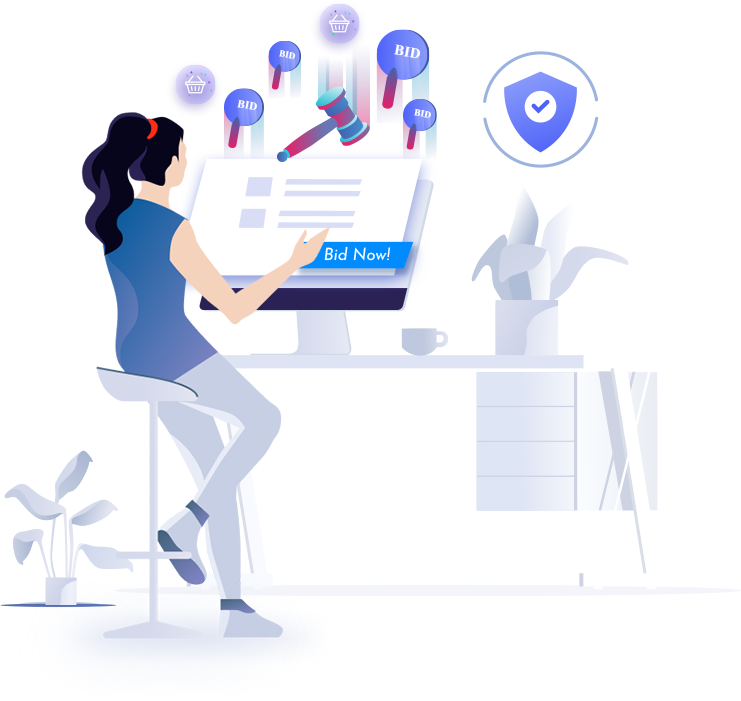
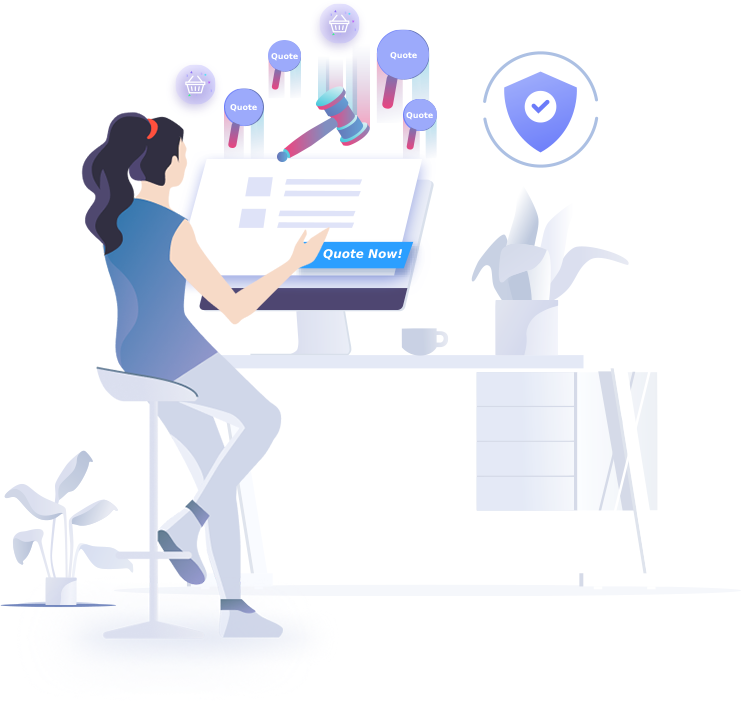
global quote

diff --git a/fornt_new_assests/assets/css/main.css b/fornt_new_assests/assets/css/main.css
@@ -3488,7 +3488,8 @@ div[class*="auction"] .custom-button {
     overflow: hidden;
     background-color: #f6f6ff;
     justify-content: center;
-    align-items: center;
+   /* align-items: center;*/
+   text-align: center;
 }
 
 .auction-item-2 .auction-thumb .bid {
@@ -8889,13 +8890,13 @@ a.vt-cash {
     font-weight: 800;
 }
 .img-glob{
-    width: 70px !important;
-    margin-right: 20px;
+    width: 50px !important;
+    margin-right: 10px;
 }
 
 
 a.buyer-text {
-    font-size: 30px;
+    font-size: 16px;
     padding: 50px 0px;
     color: #000;
     font-weight: 900;
@@ -8941,5 +8942,14 @@ h4.ct-shop {
     margin-bottom: 14px;
     font-weight: 500;
     color: #545454;
+}
+
+p.title-st {
+    font-size: 18px;
+    margin-top: 6px;
+    font-weight: 600;
+}
+a.browse-item.st-ht {
+    height: 200px !important;
 }
 /*close*/

diff --git a/application/views/front/buyer-home.php b/application/views/front/buyer-home.php
@@ -295,30 +295,47 @@ a.st-ankr {
             </div>
             <div class="m--15">
                 <div class="browse-slider owl-theme owl-carousel">
-                    <a href="#0" class="browse-item">
-                        <img src="<?php echo base_url();?>fornt_new_assests/assets/images/auction/01.png" alt="auction">
-                        <span class="info">Vehicles</span>
+                    <a href="#0" class="browse-item st-ht" data-toggle="modal" data-target="#requestModalCenter">
+                        <img src="<?php echo base_url();?>fornt_new_assests/assets/images/auction/06.png" alt="auction">
+                        <span class="info">Home Appliance</span>
                     </a>
-                    <a href="#0" class="browse-item">
-                        <img src="<?php echo base_url();?>fornt_new_assests/assets/images/auction/02.png" alt="auction">
-                        <span class="info">Jewelry</span>
-                    </a>
-                    <a href="#0" class="browse-item">
-                        <img src="<?php echo base_url();?>fornt_new_assests/assets/images/auction/03.png" alt="auction">
-                        <span class="info">Watches</span>
-                    </a>
-                    <a href="#0" class="browse-item">
+                    <a href="#0" class="browse-item st-ht" data-toggle="modal" data-target="#electronicModalCenter">
                         <img src="<?php echo base_url();?>fornt_new_assests/assets/images/auction/04.png" alt="auction">
                         <span class="info">Electronics</span>
                     </a>
-                    <a href="#0" class="browse-item">
-                        <img src="<?php echo base_url();?>fornt_new_assests/assets/images/auction/05.png" alt="auction">
-                        <span class="info">Sports</span>
+                    <a href="#0" class="browse-item st-ht">
+                        <img src="<?php echo base_url();?>fornt_new_assests/assets/images/auction/01.png" alt="auction">
+                        <span class="info">Automobile</span>
                     </a>
-                    <a href="#0" class="browse-item">
+                    <a href="#0" class="browse-item st-ht">
                         <img src="<?php echo base_url();?>fornt_new_assests/assets/images/auction/06.png" alt="auction">
-                        <span class="info">Real Estate</span>
+                        <span class="info">Hotal</span>
                     </a>
+                    <a href="#0" class="browse-item st-ht">
+                        <img src="<?php echo base_url();?>fornt_new_assests/assets/images/auction/pharmacy-img.png" alt="auction">
+                        <span class="info">Pharamcy</span>
+                    </a>
+                    <a href="#0" class="browse-item st-ht">
+                         <img src="<?php echo base_url();?>fornt_new_assests/assets/images/auction/pharmacy-img.png" alt="auction">
+                        <span class="info">Healthcare services</span>
+                    </a>
+                    <a href="#0" class="browse-item st-ht">
+                        <img src="<?php echo base_url();?>fornt_new_assests/assets/images/auction/01.png" alt="auction">
+                        <span class="info">Travel</span>
+                    </a>
+                    <a href="#0" class="browse-item st-ht">
+                        <img src="<?php echo base_url();?>fornt_new_assests/assets/images/auction/event-img.png" alt="auction">
+                        <span class="info">Events</span>
+                    </a>
+                    <a href="#0" class="browse-item st-ht">
+                        <img src="<?php echo base_url();?>fornt_new_assests/assets/images/auction/profess-img.png" alt="auction">
+                        <span class="info">Professional services</span>
+                    </a>
+                    <a href="#0" class="browse-item st-ht">
+                        <img src="<?php echo base_url();?>fornt_new_assests/assets/images/auction/fitness-img.png" alt="auction">
+                        <span class="info">Fitness</span>
+                    </a>
+                    
                 </div>
             </div>
         </div>
@@ -327,19 +344,15 @@ a.st-ankr {
 
 
     <!--============= Feture Auction Section Starts Here =============-->
-    <section class="feature-auction-section padding-bottom padding-top bg_img" data-background="<?php echo base_url();?>fornt_new_assests/assets/images/auction/featured/featured-bg-1.jpg">
+    <!-- <section class="feature-auction-section padding-bottom padding-top bg_img" data-background="<?php echo base_url();?>fornt_new_assests/assets/images/auction/featured/featured-bg-1.jpg">
         <div class="container">
-           <!--  <div class="section-header">
-                <h2 class="title">Featured Items</h2>
-                <p>Bid and win great deals,Our auction process is simple, efficient, and transparent.</p>
-            </div> -->
+
             <div class="row justify-content-center mb-30-none">
                 <div class="col-sm-10 col-md-6 col-lg-6">
                     <div class="auction-item-2">
                         <div class="auction-thumb">
                             <a href="<?php echo base_url();?>home/globalQuote" class="buyer-text"><img src="<?php echo base_url();?>fornt_new_assests/assets/images/logo/global-img.png" alt="" class="img-glob"/>Global Request</a>
-                            <!-- <a href="#0" class="rating"><i class="far fa-star"></i></a>
-                            <a href="#0" class="bid"><i class="flaticon-auction"></i></a> -->
+                           
                         </div>
                        
                     </div>
@@ -348,22 +361,87 @@ a.st-ankr {
                     <div class="auction-item-2">
                         <div class="auction-thumb">
                             <a href="<?php echo base_url();?>home/inShopRequest" class="buyer-text"><img src="<?php echo base_url();?>fornt_new_assests/assets/images/logo/store-img.png" alt="" class="img-glob"/> Shop Request</a>
-                           <!--  <a href="#0" class="rating"><i class="far fa-star"></i></a>
-                            <a href="#0" class="bid"><i class="flaticon-auction"></i></a> -->
+
                         </div>
                        
                     </div>
                 </div>
             </div>
-            <!-- <div class="load-wrapper">
-                <a href="#0" class="normal-button">See All Auction</a>
-            </div> -->
+            
         </div>
-    </section>
+    </section> -->
     <!--============= Feture Auction Section Ends Here =============-->
 
 
-  
+    <!-- modal for home appliance request -->
+    <div class="modal fade" id="requestModalCenter" tabindex="-1" role="dialog" aria-labelledby="requestModalCenterTitle" aria-hidden="true">
+          <div class="modal-dialog modal-dialog-centered" role="document">
+            <div class="modal-content">
+              <div class="modal-header">
+              </div>
+              <div class="modal-body">
+                     <div class="row justify-content-center mb-30-none">
+                <div class="col-sm-10 col-md-6 col-lg-6">
+                    <div class="auction-item-2">
+                        <div class="auction-thumb">
+                            <a href="<?php echo base_url();?>home/globalQuote" class="buyer-text"><img src="<?php echo base_url();?>fornt_new_assests/assets/images/logo/global-img.png" alt="" class="img-glob"/>
+                            <p class="title-st">Global Request</p>
+                            </a>
+                        </div>
+                       
+                    </div>
+                </div>
+                <div class="col-sm-10 col-md-6 col-lg-6">
+                    <div class="auction-item-2">
+                        <div class="auction-thumb">
+                            <a href="<?php echo base_url();?>home/inShopRequest" class="buyer-text"><img src="<?php echo base_url();?>fornt_new_assests/assets/images/logo/store-img.png" alt="" class="img-glob"/>
+                                <p class="title-st">Shop Request</p>
+                            </a>
+                        </div>
+                    </div>
+                </div>
+            </div>
+              </div>
+             
+            </div>
+          </div>
+     </div>
+    <!-- close -->
+
+    <!-- modal for electronic -->
+      <div class="modal fade" id="electronicModalCenter" tabindex="-1" role="dialog" aria-labelledby="electronicModalCenterTitle" aria-hidden="true">
+          <div class="modal-dialog modal-dialog-centered" role="document">
+            <div class="modal-content">
+              <div class="modal-header">
+              </div>
+              <div class="modal-body">
+                     <div class="row justify-content-center mb-30-none">
+                <div class="col-sm-10 col-md-6 col-lg-6">
+                    <div class="auction-item-2">
+                        <div class="auction-thumb">
+                            <a href="electro-global-req.html" class="buyer-text"><img src="assets/images/logo/global-img.png" alt="" class="img-glob"/>
+                            <p class="title-st">Global Request</p>
+                            </a>
+                        </div>
+                    </div>
+                </div>
+                <div class="col-sm-10 col-md-6 col-lg-6">
+                    <div class="auction-item-2">
+                        <div class="auction-thumb">
+                            <a href="in-shop-request.html" class="buyer-text"><img src="assets/images/logo/store-img.png" alt="" class="img-glob"/>
+                                <p class="title-st">Shop Request</p>
+                            </a>
+                        </div>
+                    </div>
+                </div>
+            </div>
+              </div>
+            </div>
+          </div>
+        </div>
+ <!-- modal for electronic close-->
+
+
 
 
   

diff --git a/application/views/front/global-quote.php b/application/views/front/global-quote.php
@@ -241,18 +241,10 @@ textarea {
             </div> -->
             <div class="row justify-content-center mb-30-none">
                 <div class="col-sm-10 col-md-12 col-lg-12">
-                  <div class="quote-form"> 
+                <div class="quote-form"> 
                     <h3 class="st-req">Global Request</h3>
                       <form class="login-form">
-                        <div class="form-group mb-30">
-                            <label for="login-name"></label>
-                            <select >
-                                <option>--Select Category--</option>
-                                <option>Home Appliance</option>
-                                <option>Electronics</option>
-                                <option>Automobiles</option>
-                            </select>
-                        </div>
+                       
                         <div class="form-group mb-30">
                             <label for="login-name"></label>
                             <select >
@@ -275,12 +267,12 @@ textarea {
                         </div>
                         <div class="form-group mb-30">
                             <label for="price"></label>
-                            <input type="text" id="price" placeholder="Max Price in Rupees ">
+                            <input type="text" id="price" placeholder="Specification ">
                         </div>
-                        <div class="form-group">
+                       <!--  <div class="form-group">
                             <label for="login-pass"></label>
                             <textarea name="message" id="message" placeholder="Description"></textarea>
-                        </div>
+                        </div> -->
                         <div class="form-group mb-30">
                             <label for="login-name"></label>
                             <select >

diff --git a/application/views/adminnew/header.php b/application/views/adminnew/header.php
@@ -54,7 +54,7 @@
 </script>
 <style type="text/css">
     .skin-blue .main-header .navbar {
-      background-color: #dc2626  !important;
+      background-color: #f65275  !important;
     }
     .skin-blue .main-header .logo {
       background-color: #FFF !important;
@@ -91,6 +91,10 @@
     }
     .fa-toggle-off{
       font-size: 24px;
+    }
+    .skin-blue .sidebar-menu>li:hover>a, .skin-blue .sidebar-menu>li.active>a, .skin-blue .sidebar-menu>li.menu-open>a {
+    color: #fff;
+    background: #f65275;
     }
 </style>
 <style type="text/css">
